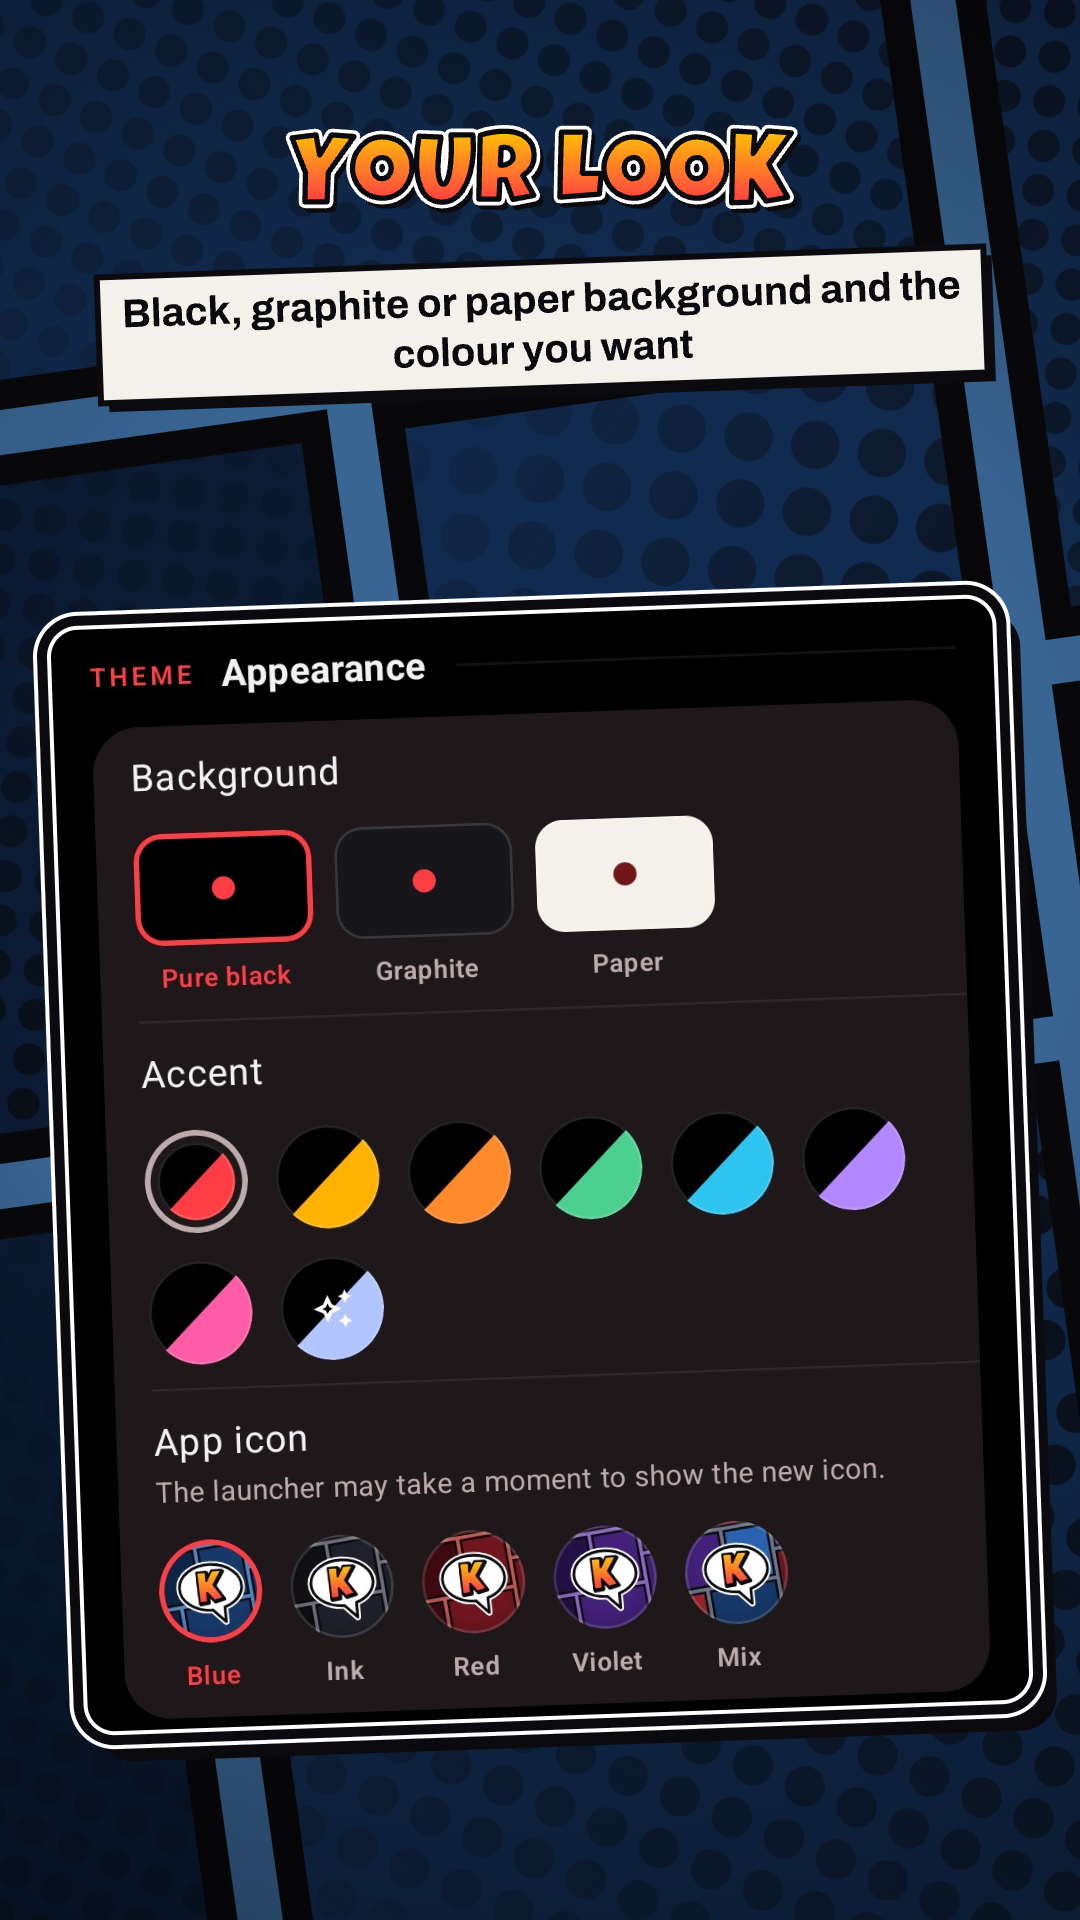
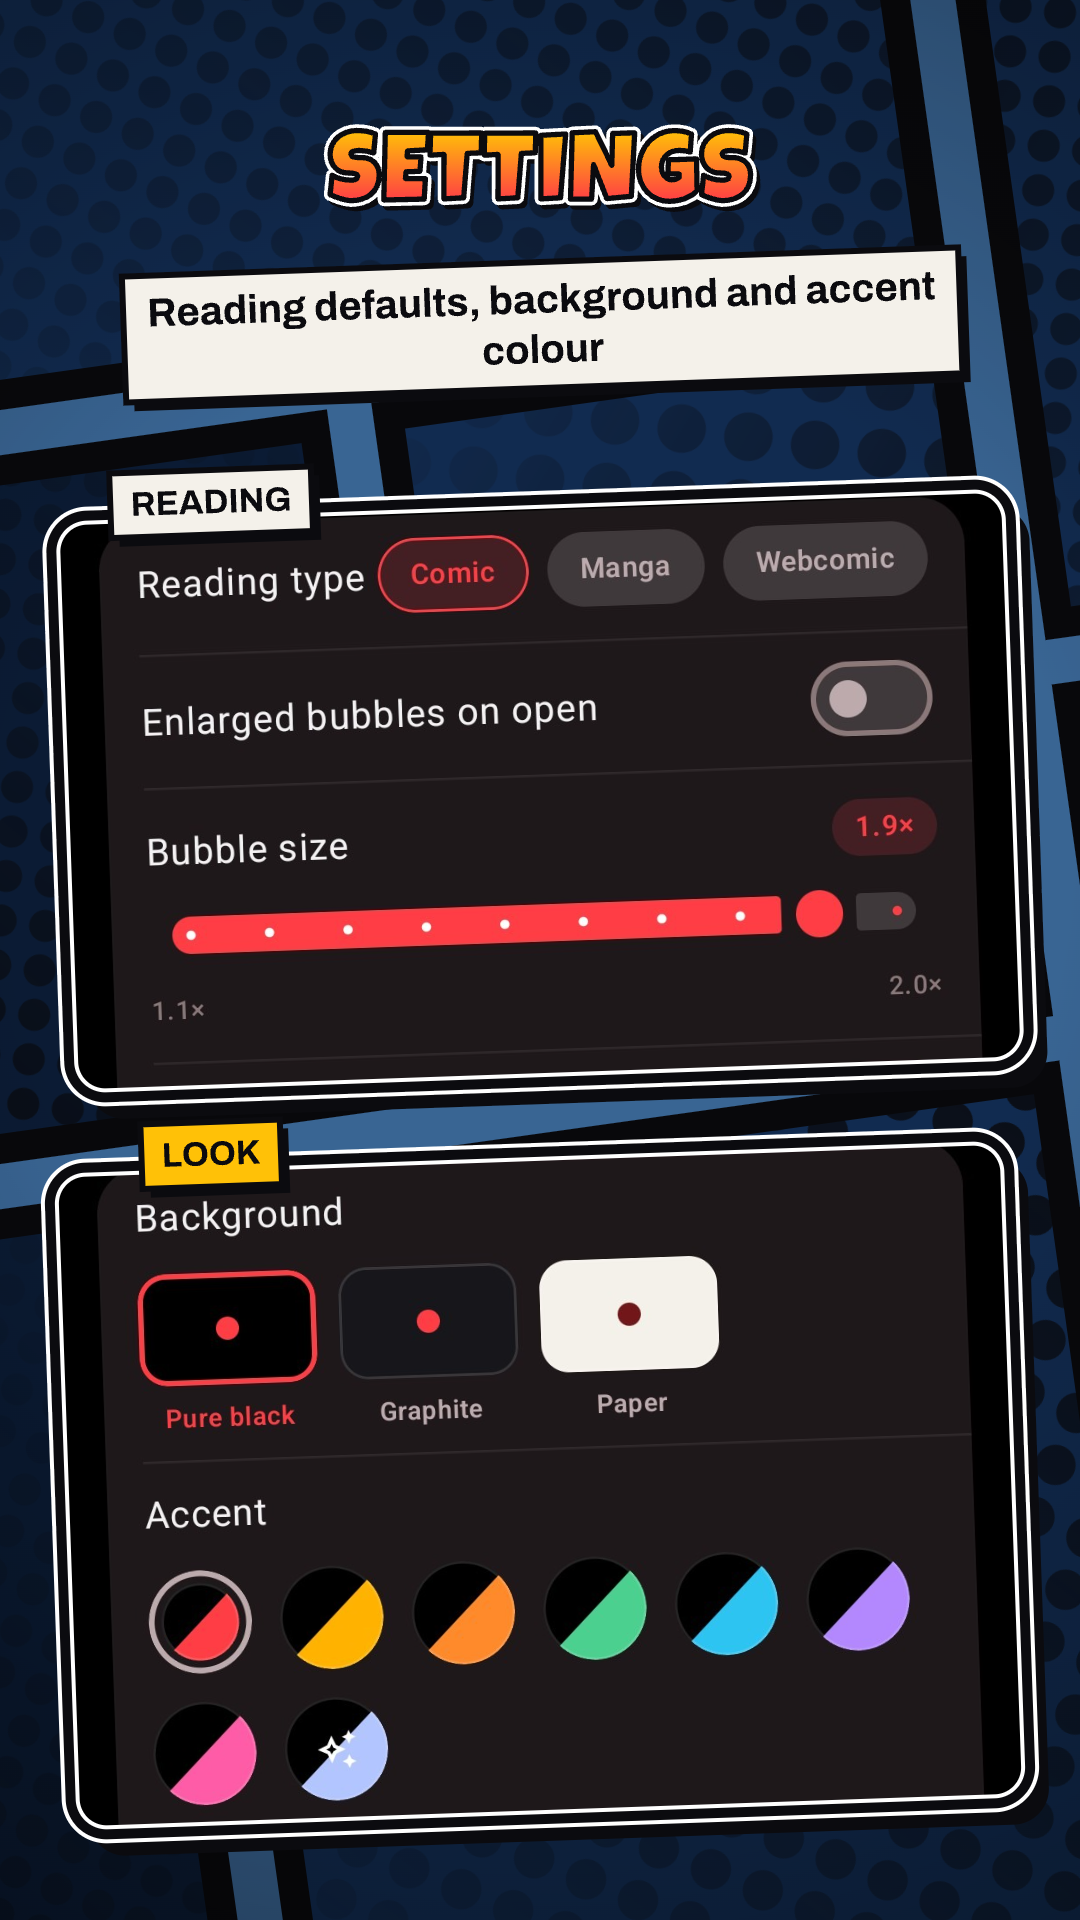
Show reading defaults and appearance together in the settings shot
The last phone slot becomes a stacked pair: the Reading defaults section
(reading type, bubbles, bubble size) over Background and Accent, from
pre-cropped raws the script stacks as they are.

Claude-Session: https://claude.ai/code/session_01EMXWQwmVKSLwBJMKXXfnNE

diff --git a/tools/store_assets/screenshots.py b/tools/store_assets/screenshots.py
@@ -33,8 +33,8 @@ SHOTS = [
                            "es-ES": ("ESCANEOS VIEJOS", "Más contraste para las páginas amarillentas")}),
     ("phone", "search", {"en-US": ("SEARCH", "Search by series, writer or year"),
                          "es-ES": ("BÚSQUEDA", "Busca por serie, guionista o año")}),
-    ("phone", "settings", {"en-US": ("YOUR LOOK", "Black, graphite or paper background and the colour you want"),
-                           "es-ES": ("A TU GUSTO", "Fondo negro, grafito o papel y el color que quieras")}),
+    ("phone", "settings", {"en-US": ("SETTINGS", "Reading defaults, background and accent colour"),
+                           "es-ES": ("AJUSTES", "Lectura por defecto, fondo y color de acento")}),
     ("tablet", "spread", {"en-US": ("TWO PAGES", "On a tablet you read two pages at a time"),
                           "es-ES": ("DOBLE PÁGINA", "En tablet se lee a doble página")}),
     ("tablet", "bubbles-spread", {"en-US": ("BIGGER BUBBLES!", "On the spread too"),
@@ -49,7 +49,9 @@ COMPARE_SHOTS = {
     "bubbles-spread": {"en-US": ("BEFORE", "AFTER"), "es-ES": ("ANTES", "DESPUÉS")},
     "guided": {"en-US": ("PAGE", "PANEL"), "es-ES": ("PÁGINA", "VIÑETA")},
     "pagelook": {"en-US": ("ORIGINAL", "MORE CONTRAST"), "es-ES": ("ORIGINAL", "MÁS CONTRASTE")},
+    "settings": {"en-US": ("READING", "LOOK"), "es-ES": ("LECTURA", "ASPECTO")},
 }
+PRECROPPED = {"settings"}
 
 PANEL_TILT = -2
 PANEL_STROKE = 10
@@ -264,6 +266,8 @@ def tablet_compare_svg(crops: tuple, labels: tuple, title: str, text: str, k: st
 def compare(kind: str, name: str, lang: str, shot: Image.Image, title: str, text: str, k: str, luckiest: TTFont, archivo: TTFont) -> str:
     before = Image.open(RAW / f"{name}-off-{kind}-{lang}.jpg")
     labels = COMPARE_SHOTS[name][lang]
+    if name in PRECROPPED:
+        return compare_svg((before, shot), labels, title, text, k, luckiest, archivo)
     if kind == "phone":
         return compare_svg(pair_crops(before, shot), labels, title, text, k, luckiest, archivo)
     return tablet_compare_svg(spread_crops(before, shot), labels, title, text, k, luckiest, archivo)

diff --git a/docs/release.md b/docs/release.md
@@ -151,8 +151,9 @@ panel is the whole page, scaled down to leave the zoomed panel its full width.
 The strip shrinks so two panels always fit the canvas. The tablet pair crops the
 right-hand page of the spread.
 
-Two raws are pre-cropped before framing: the settings capture to the Appearance
-section (background, accents, app icon) and the tablet library to the cover
+Shots in `PRECROPPED` skip the page detection: their two raws are already the
+crops, which is how the settings shot stacks the Reading defaults over the
+Appearance section. The tablet library raw is also pre-cropped to the cover
 area, because the tablet layout leaves the right third empty. A phone capture
 wider than 960 px after scaling is clamped to that width and centred.
 
